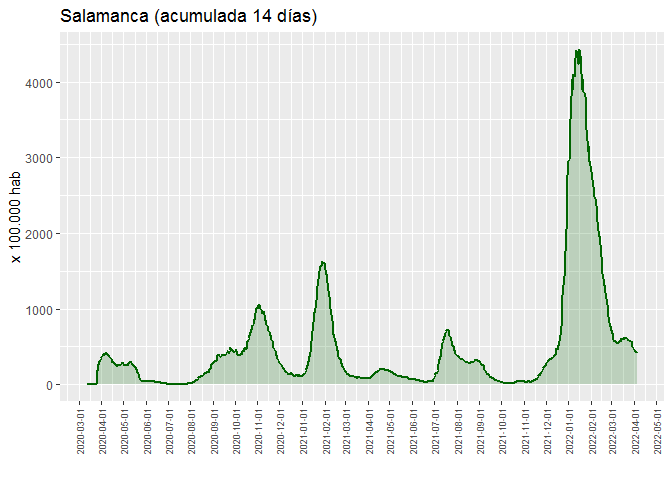
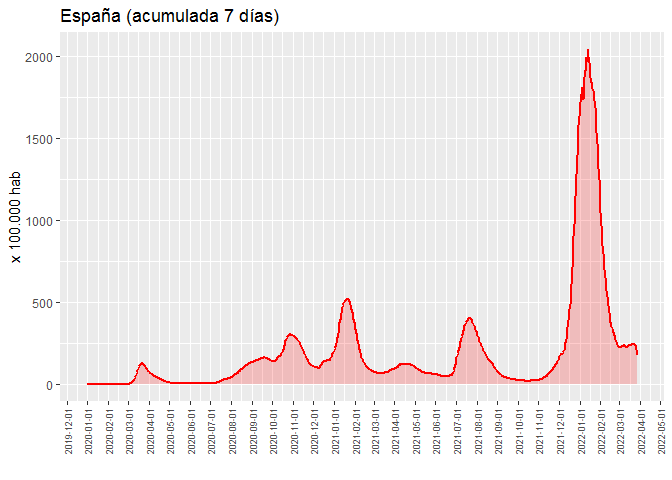
update

diff --git a/README.md b/README.md
@@ -1,13 +1,13 @@
 Covid-19: Incidencia acumulada
 ================
 JMSS \[Usal - CIC\]
-(updated: 07 abr 2022)
+(updated: 21 abr 2022)
 
 ### Incidencia acumulada del Covid19 por cada 100.000 habitantes
 
 Datos extraídos de [CNE-covid
-ISCIII](https://cnecovid.isciii.es/covid19) y de [Junta de Castilla y
-León - Datos
+ISCIII](https://cnecovid.isciii.es/covid19) *(ya no actualizan los casos
+totales)* y de [Junta de Castilla y León - Datos
 abiertos](https://analisis.datosabiertos.jcyl.es/pages/home/)
 
 ![](README_files/figure-gfm/graficos-1.png)<!-- -->![](README_files/figure-gfm/graficos-2.png)<!-- -->![](README_files/figure-gfm/graficos-3.png)<!-- -->![](README_files/figure-gfm/graficos-4.png)<!-- -->
